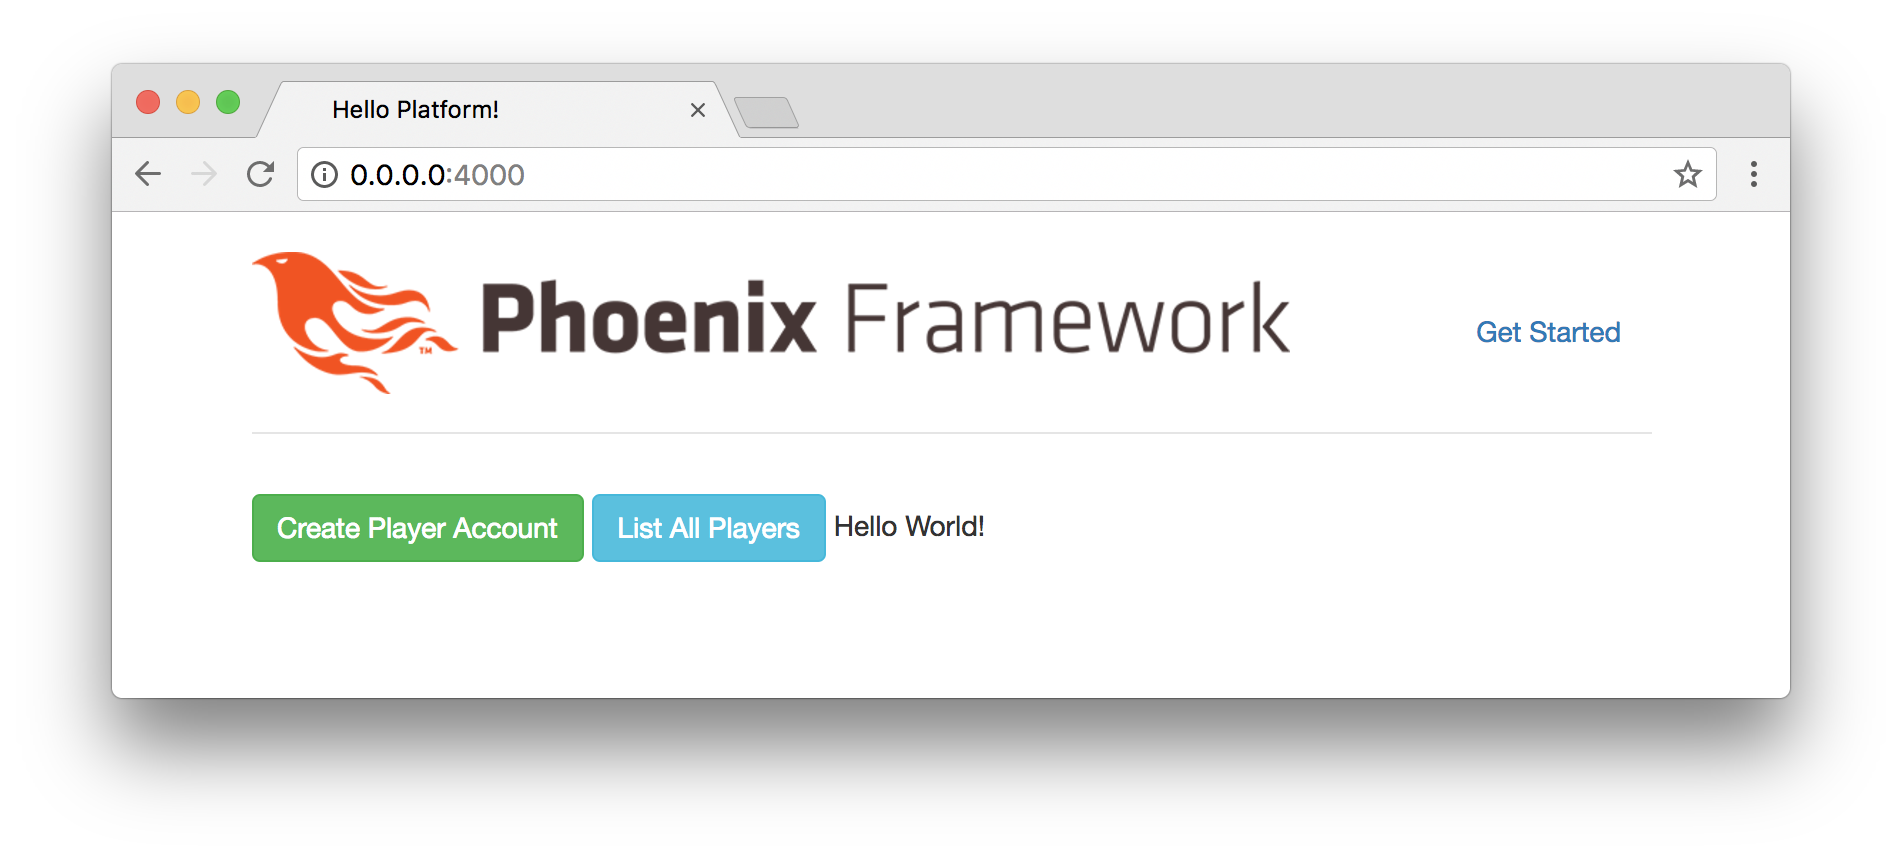
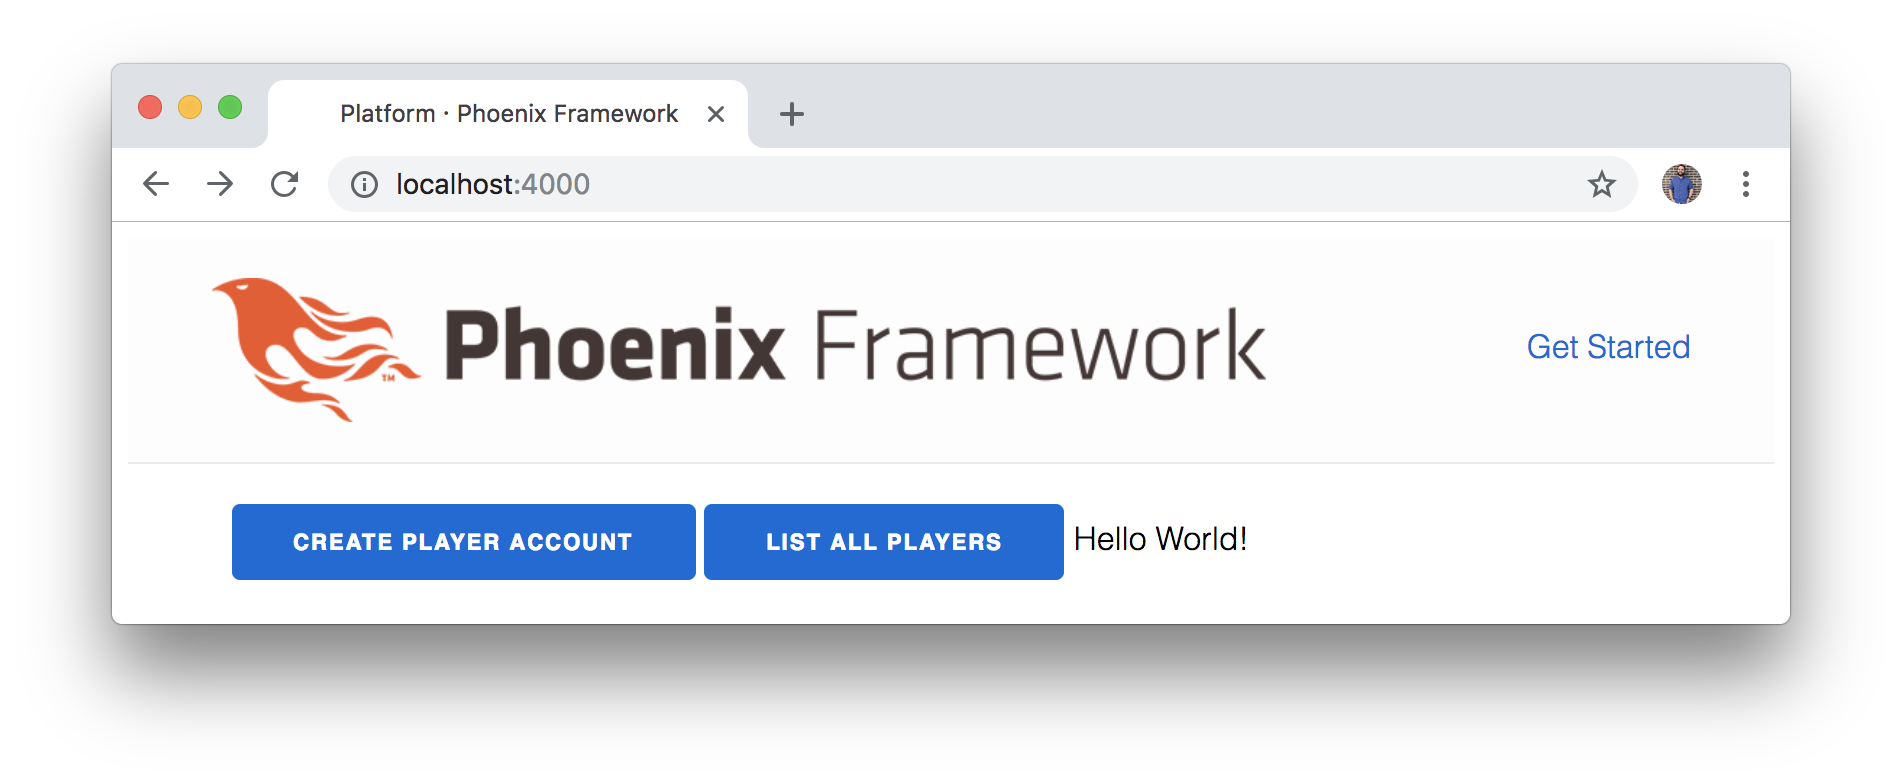
Finish updates to Diving In chapter and images
Looks like Phoenix removed Bootstrap in favor of Milligram, which means
quite a few updates will likely be necessary to all the screenshots and
classes used throughout the book.

diff --git a/manuscript/diving_in.md b/manuscript/diving_in.md
@@ -399,8 +399,8 @@ replace it with the following:
 
 ```html
 <div class="container">
-  <a class="btn btn-success" href="/players/new">Create Player Account</a>
-  <a class="btn btn-info" href="/players">List All Players</a>
+  <a class="button" href="/players/new">Create Player Account</a>
+  <a class="button" href="/players">List All Players</a>
 </div>
 ```
 
@@ -438,8 +438,8 @@ function, and we're passing it the string `"Hello World!"`:
 
 ```embedded_elixir
 <div class="container">
-  <a class="btn btn-success" href="/players/new">Create Player Account</a>
-  <a class="btn btn-info" href="/players">List All Players</a>
+  <a class="button" href="/players/new">Create Player Account</a>
+  <a class="button" href="/players">List All Players</a>
 
   <%= IO.inspect("Hello World!") %>
 </div>
@@ -453,13 +453,13 @@ We can do something similar to embed a link on our page. We won't need to
 explicitly mention the module (`Phoenix.HTML.Link`), because we already have
 access to some helpful Phoenix functions in this context. We can recreate
 our existing HTML links with the following code by passing the link text, the
-location, and some extra classes for Bootstrap (which comes preloaded with
-Phoenix by default) to make it look nice:
+location, and a `button` class to make it look nice (Phoenix comes with a small
+CSS framework preinstalled):
 
 ```embedded_elixir
 <div class="container">
-  <%= link("Create Player Account", to: "/players/new", class: "btn btn-success") %>
-  <%= link("List All Players", to: "/players", class: "btn btn-info") %>
+  <%= link("Create Player Account", to: "/players/new", class: "button") %>
+  <%= link("List All Players", to: "/players", class: "button") %>
 </div>
 ```
 
